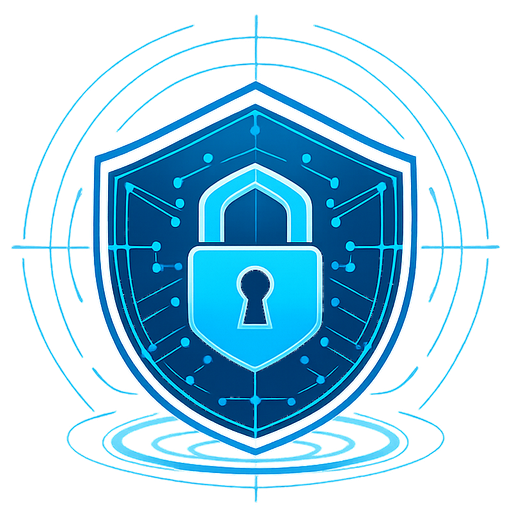
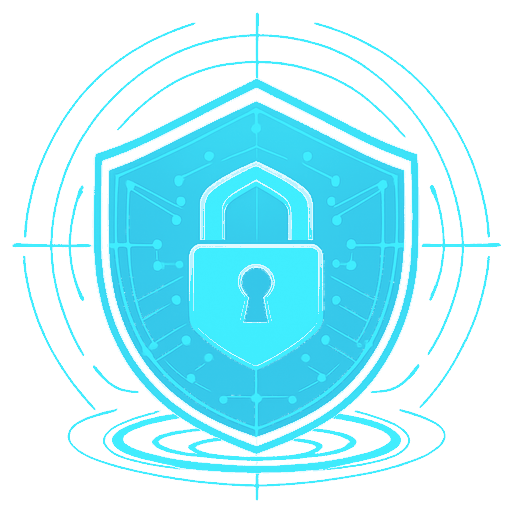
Update project files

diff --git a/ui.py b/ui.py
@@ -1,4 +1,4 @@
-from __future__ import annotations
+from __future__ import annotations
 
 import math
 import random
@@ -1482,9 +1482,8 @@ class ShieldMark(QWidget):
 
 class MetricBar(QWidget):
     """
-    Compact MEDPOV metric row.
-    v4: Smaller height so CPU / MEMORY / NETWORK / GPU / TEMP fit cleanly
-    inside the SYSTEM STATUS card without clipping.
+    MEDPOV compact readable metric row.
+    v7: Removes unclear symbol glyphs and uses readable CPU/MEM/NET/GPU/TMP chips.
     """
 
     def __init__(self, label: str, color: str = C.PRI, parent=None):
@@ -1493,7 +1492,7 @@ class MetricBar(QWidget):
         self._color = color
         self._value = 0.0
         self._text = "--"
-        self.setFixedHeight(46)
+        self.setFixedHeight(45)
         self.setMinimumWidth(118)
 
     def set_value(self, pct: float, text: str):
@@ -1501,21 +1500,44 @@ class MetricBar(QWidget):
             pct = float(pct)
         except Exception:
             pct = 0.0
+
         self._value = max(0.0, min(100.0, pct))
         self._text = str(text or "--")
         self.update()
 
-    def _icon_text(self) -> str:
-        return {
-            "CPU": "â—†",
-            "MEM": "â–£",
-            "MEMORY": "â–£",
-            "NET": "â—",
-            "NETWORK": "â—",
-            "GPU": "â–¤",
-            "TMP": "â™¨",
-            "TEMP": "â™¨",
-        }.get(self._label, "â€¢")
+    def _chip_text(self) -> str:
+        key = self._label.strip().upper()
+
+        if key in ("CPU", "PROCESSOR"):
+            return "CPU"
+
+        if key in ("MEM", "MEMORY", "RAM"):
+            return "MEM"
+
+        if key in ("NET", "NETWORK"):
+            return "NET"
+
+        if key == "GPU":
+            return "GPU"
+
+        if key in ("TMP", "TEMP", "TEMPERATURE"):
+            return "TMP"
+
+        return key[:3] if key else "SYS"
+
+    def _pretty_label(self) -> str:
+        key = self._label.strip().upper()
+
+        if key == "MEM":
+            return "MEMORY"
+
+        if key == "NET":
+            return "NETWORK"
+
+        if key == "TMP":
+            return "TEMP"
+
+        return key
 
     def paintEvent(self, _):
         p = QPainter(self)
@@ -1526,20 +1548,20 @@ class MetricBar(QWidget):
         H = float(self.height())
 
         bg = QLinearGradient(0, 0, W, H)
-        bg.setColorAt(0.00, qcol("#0b2032", 238))
-        bg.setColorAt(0.48, qcol("#071827", 245))
-        bg.setColorAt(1.00, qcol("#040b15", 250))
+        bg.setColorAt(0.00, qcol("#0b2134", 238))
+        bg.setColorAt(0.45, qcol("#071827", 248))
+        bg.setColorAt(1.00, qcol("#030a14", 252))
 
-        p.setPen(QPen(qcol(C.BORDER_A, 178), 1))
+        p.setPen(QPen(qcol(C.BORDER_A, 160), 1))
         p.setBrush(QBrush(bg))
         p.drawRoundedRect(QRectF(1, 1, W - 2, H - 2), 13, 13)
 
-        # Soft top glow
-        glow = QLinearGradient(0, 1, 0, H * 0.58)
-        glow.setColorAt(0.00, qcol(C.PRI, 28))
-        glow.setColorAt(1.00, qcol(C.PRI, 0))
+        # soft upper light
+        top_glow = QLinearGradient(0, 1, 0, H * 0.58)
+        top_glow.setColorAt(0.00, qcol(C.PRI, 24))
+        top_glow.setColorAt(1.00, qcol(C.PRI, 0))
         p.setPen(Qt.PenStyle.NoPen)
-        p.setBrush(QBrush(glow))
+        p.setBrush(QBrush(top_glow))
         p.drawRoundedRect(QRectF(2, 2, W - 4, H * 0.54), 12, 12)
 
         if self._value > 85:
@@ -1549,57 +1571,76 @@ class MetricBar(QWidget):
         else:
             bar_col = qcol(self._color)
 
-        # Icon chip
-        icon_rect = QRectF(13, 8, 28, 28)
-        chip_grad = QRadialGradient(icon_rect.center(), 22)
-        chip_grad.setColorAt(0.0, qcol(self._color, 105))
-        chip_grad.setColorAt(1.0, qcol("#061421", 235))
+        # readable chip instead of broken symbol icon
+        chip_rect = QRectF(11, 8, 42, 28)
+
+        chip_grad = QLinearGradient(chip_rect.left(), chip_rect.top(), chip_rect.right(), chip_rect.bottom())
+        chip_grad.setColorAt(0.00, qcol(self._color, 82))
+        chip_grad.setColorAt(0.55, qcol("#09263a", 225))
+        chip_grad.setColorAt(1.00, qcol("#04101d", 245))
+
         p.setBrush(QBrush(chip_grad))
-        p.setPen(QPen(qcol(self._color, 145), 1))
-        p.drawRoundedRect(icon_rect, 9, 9)
+        p.setPen(QPen(qcol(self._color, 175), 1))
+        p.drawRoundedRect(chip_rect, 9, 9)
 
-        p.setFont(QFont("Segoe UI Symbol", 9, QFont.Weight.Bold))
-        p.setPen(qcol(self._color, 230))
-        p.drawText(icon_rect, Qt.AlignmentFlag.AlignCenter, self._icon_text())
-
-        # Label and value
-        p.setFont(QFont("Segoe UI", 8, QFont.Weight.Black))
-        p.setPen(qcol(C.WHITE, 232))
-        p.drawText(
-            QRectF(52, 7, max(20, W - 118), 14),
-            Qt.AlignmentFlag.AlignLeft | Qt.AlignmentFlag.AlignVCenter,
-            self._label,
+        # tiny chip inner scan line
+        p.setPen(QPen(qcol(self._color, 72), 1))
+        p.drawLine(
+            QPointF(chip_rect.left() + 6, chip_rect.bottom() - 6),
+            QPointF(chip_rect.right() - 6, chip_rect.bottom() - 6),
         )
 
+        p.setFont(QFont("Segoe UI", 7, QFont.Weight.Black))
+        p.setPen(qcol("#e7fbff", 235))
+        p.drawText(
+            chip_rect,
+            Qt.AlignmentFlag.AlignCenter,
+            self._chip_text(),
+        )
+
+        # label
+        p.setFont(QFont("Segoe UI", 8, QFont.Weight.Black))
+        p.setPen(qcol(C.WHITE, 238))
+        p.drawText(
+            QRectF(62, 7, max(20, W - 154), 15),
+            Qt.AlignmentFlag.AlignLeft | Qt.AlignmentFlag.AlignVCenter,
+            self._pretty_label(),
+        )
+
+        # value
         p.setFont(QFont("Segoe UI", 13, QFont.Weight.Black))
         p.setPen(bar_col if self._text != "--" else qcol(C.TEXT_DIM))
         p.drawText(
-            QRectF(W - 94, 5, 78, 18),
+            QRectF(W - 96, 5, 80, 18),
             Qt.AlignmentFlag.AlignRight | Qt.AlignmentFlag.AlignVCenter,
             self._text,
         )
 
-        # Compact progress rail
-        bar_x = 52
+        # progress rail
+        bar_x = 62
         bar_y = H - 14
-        bar_w = max(28, W - 72)
+        bar_w = max(32, W - 84)
         bar_h = 5
         fill_w = int(bar_w * self._value / 100.0)
 
         p.setPen(Qt.PenStyle.NoPen)
-        p.setBrush(QBrush(qcol("#0b2638", 245)))
+        p.setBrush(QBrush(qcol("#0a2638", 245)))
         p.drawRoundedRect(QRectF(bar_x, bar_y, bar_w, bar_h), 3, 3)
 
         if fill_w > 0:
             grad = QLinearGradient(bar_x, bar_y, bar_x + max(1, fill_w), bar_y)
-            grad.setColorAt(0.0, qcol(self._color, 120))
-            grad.setColorAt(1.0, bar_col)
+            grad.setColorAt(0.00, qcol(self._color, 120))
+            grad.setColorAt(0.70, bar_col)
+            grad.setColorAt(1.00, qcol("#ffffff", 185))
             p.setBrush(QBrush(grad))
             p.drawRoundedRect(QRectF(bar_x, bar_y, fill_w, bar_h), 3, 3)
 
-        # Right micro status dot
+        # status dot
         p.setBrush(QBrush(bar_col))
         p.drawEllipse(QPointF(W - 16, bar_y + bar_h / 2), 2.0, 2.0)
+
+
+
 class LogWidget(QTextEdit):
     _sig = pyqtSignal(str)
 